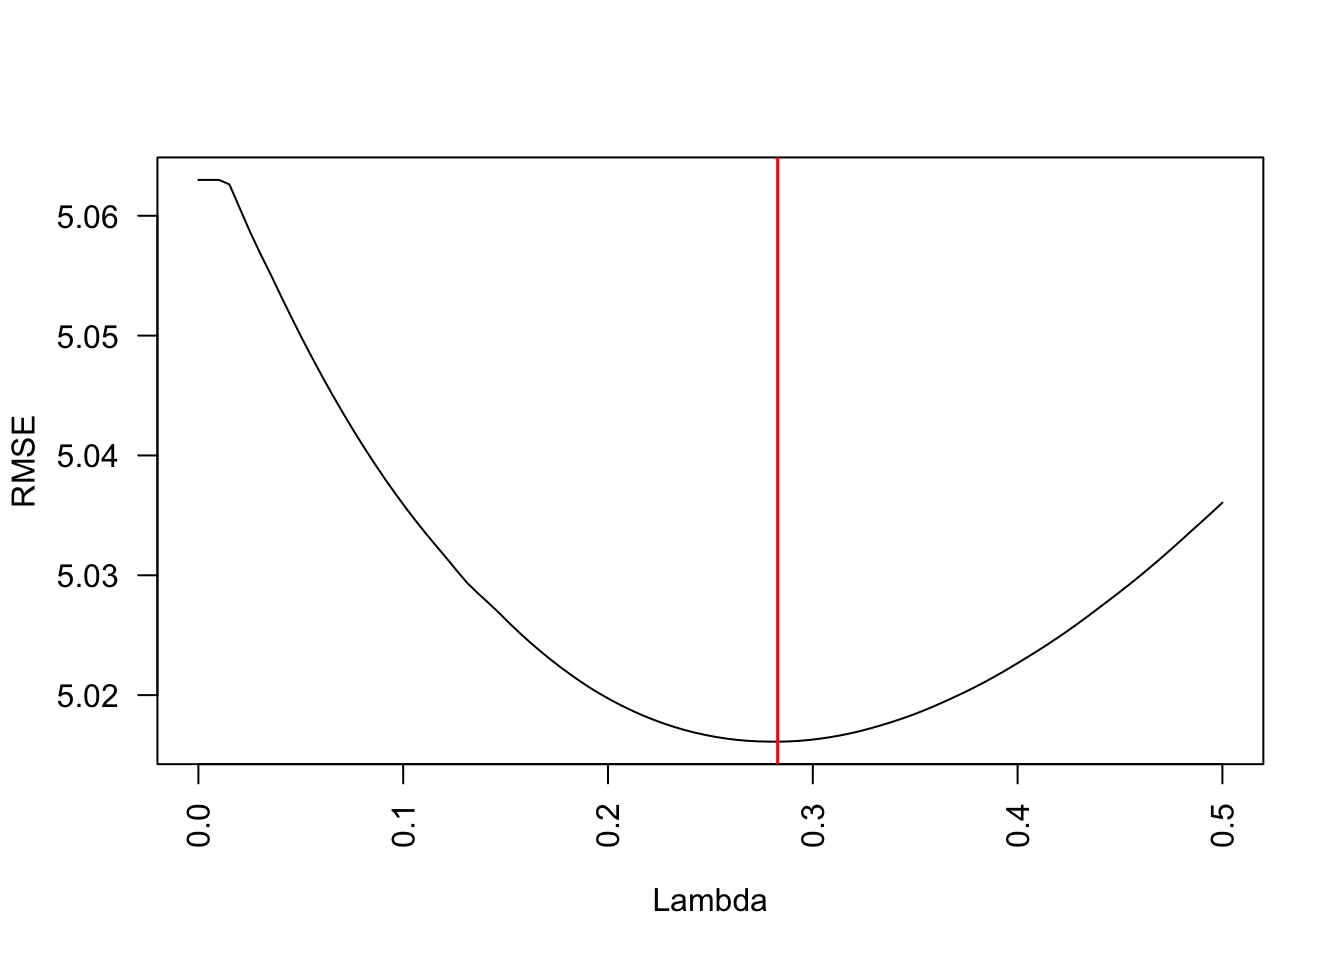
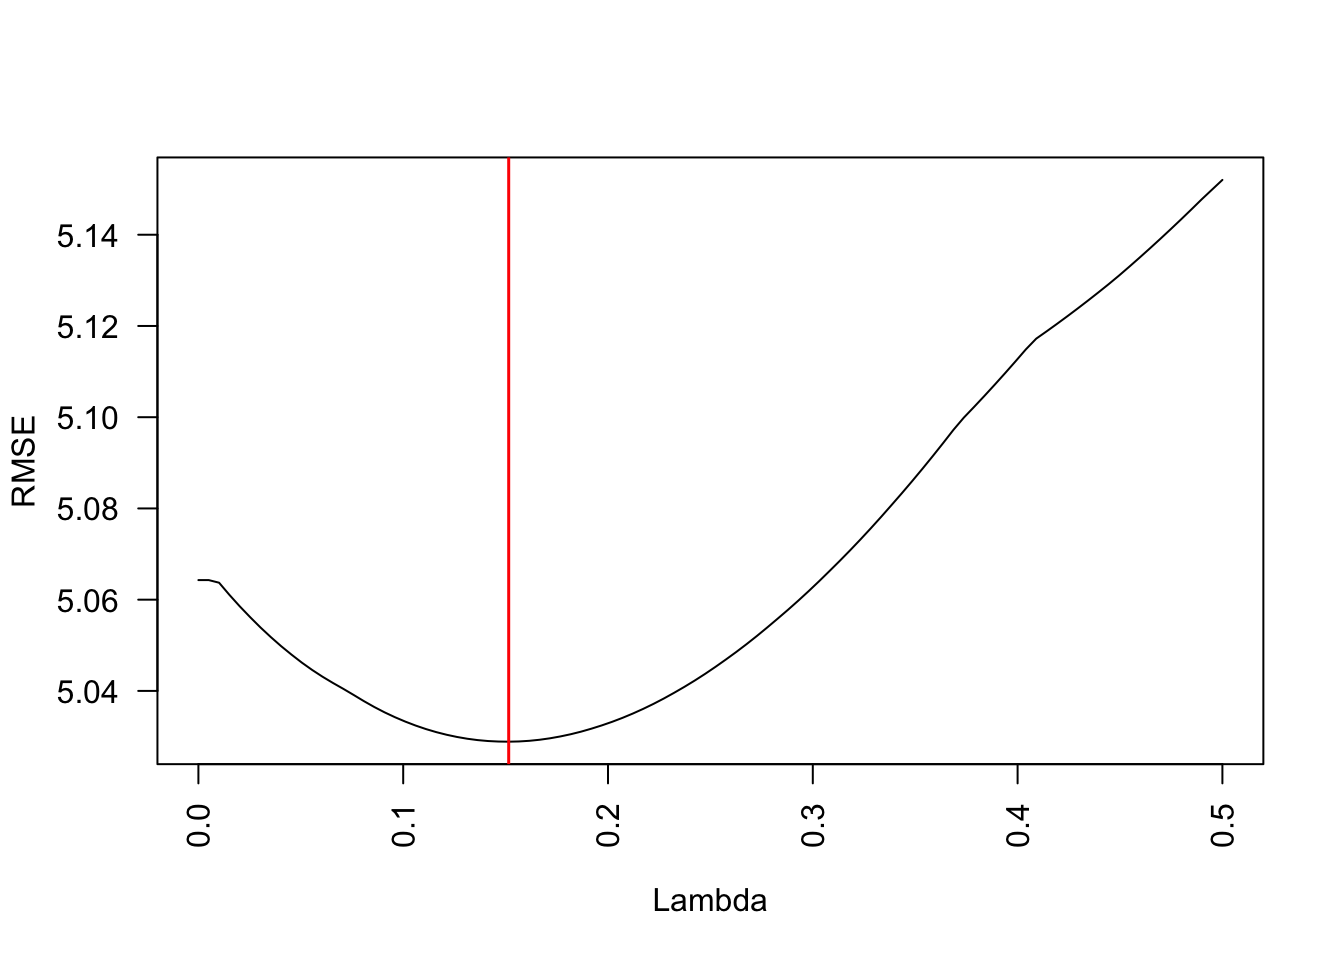
update:BIas-Variance tradeoff

diff --git a/docs/A3-BiasVarianceTradeOff.html b/docs/A3-BiasVarianceTradeOff.html
@@ -360,8 +360,8 @@ div.csl-indent {
 <div class="webex-check webex-box">
 <p><img src="images/biasVarianceTradeoff.png" class="img-fluid"></p>
 Which of the following statements about the bias-variance trade-off is correct? (see figure above)
-<div id="radio_QKNJVEIUXP" class="webex-radiogroup">
-<label><input type="radio" autocomplete="off" name="radio_QKNJVEIUXP" value="answer"> <span>The goal of considering the bias-variance trade-off is to realize that increasing complexity typically leads to more flexibility (allowing you to reduce bias) but at the cost of uncertainty (variance) in the estimated parameters.</span></label><label><input type="radio" autocomplete="off" name="radio_QKNJVEIUXP" value=""> <span>The goal of considering the bias-variance trade-off is to get the bias of the model as small as possible.</span></label>
+<div id="radio_DGGRETUWBH" class="webex-radiogroup">
+<label><input type="radio" autocomplete="off" name="radio_DGGRETUWBH" value="answer"> <span>The goal of considering the bias-variance trade-off is to realize that increasing complexity typically leads to more flexibility (allowing you to reduce bias) but at the cost of uncertainty (variance) in the estimated parameters.</span></label><label><input type="radio" autocomplete="off" name="radio_DGGRETUWBH" value=""> <span>The goal of considering the bias-variance trade-off is to get the bias of the model as small as possible.</span></label>
 </div>
 </div>
 </section>
@@ -603,7 +603,7 @@ lstat       -3.79836182 -3.6136853</code></pre>
 <span id="cb26-14"><a href="#cb26-14" aria-hidden="true" tabindex="-1"></a>test_Y <span class="ot">=</span> Y[<span class="sc">-</span>indices]</span>
 <span id="cb26-15"><a href="#cb26-15" aria-hidden="true" tabindex="-1"></a></span>
 <span id="cb26-16"><a href="#cb26-16" aria-hidden="true" tabindex="-1"></a><span class="co"># Train model on train data</span></span>
-<span id="cb26-17"><a href="#cb26-17" aria-hidden="true" tabindex="-1"></a>m1 <span class="ot">=</span> <span class="fu">glmnet</span>(<span class="at">y =</span> train_Y, <span class="at">x =</span> train_X, <span class="at">alpha =</span> <span class="fl">0.2</span>)</span>
+<span id="cb26-17"><a href="#cb26-17" aria-hidden="true" tabindex="-1"></a>m1 <span class="ot">=</span> <span class="fu">glmnet</span>(<span class="at">y =</span> train_Y, <span class="at">x =</span> train_X, <span class="at">alpha =</span> <span class="fl">0.5</span>)</span>
 <span id="cb26-18"><a href="#cb26-18" aria-hidden="true" tabindex="-1"></a></span>
 <span id="cb26-19"><a href="#cb26-19" aria-hidden="true" tabindex="-1"></a><span class="co"># Test model on test data</span></span>
 <span id="cb26-20"><a href="#cb26-20" aria-hidden="true" tabindex="-1"></a>pred <span class="ot">=</span> <span class="fu">predict</span>(m1, <span class="at">newx =</span> test_X, <span class="at">s =</span> <span class="fl">0.01</span>)</span>
@@ -611,7 +611,7 @@ lstat       -3.79836182 -3.6136853</code></pre>
 <span id="cb26-22"><a href="#cb26-22" aria-hidden="true" tabindex="-1"></a><span class="co"># Calculate performance on test data</span></span>
 <span id="cb26-23"><a href="#cb26-23" aria-hidden="true" tabindex="-1"></a>Metrics<span class="sc">::</span><span class="fu">rmse</span>(test_Y, pred)</span></code><button title="Copy to Clipboard" class="code-copy-button"><i class="bi"></i></button></pre></div>
 <div class="cell-output cell-output-stdout">
-<pre><code>[1] 5.062992</code></pre>
+<pre><code>[1] 5.063774</code></pre>
 </div>
 </div>
 <p>Let’s do it again for different values of lambdas:</p>
@@ -619,7 +619,7 @@ lstat       -3.79836182 -3.6136853</code></pre>
 <div class="sourceCode cell-code" id="cb28"><pre class="sourceCode r code-with-copy"><code class="sourceCode r"><span id="cb28-1"><a href="#cb28-1" aria-hidden="true" tabindex="-1"></a>lambdas <span class="ot">=</span> <span class="fu">seq</span>(<span class="fl">0.0000001</span>, <span class="fl">0.5</span>, <span class="at">length.out =</span> <span class="dv">100</span>)</span>
 <span id="cb28-2"><a href="#cb28-2" aria-hidden="true" tabindex="-1"></a>RMSEs <span class="ot">=</span> </span>
 <span id="cb28-3"><a href="#cb28-3" aria-hidden="true" tabindex="-1"></a>  <span class="fu">sapply</span>(lambdas, <span class="cf">function</span>(l) {</span>
-<span id="cb28-4"><a href="#cb28-4" aria-hidden="true" tabindex="-1"></a>    prediction <span class="ot">=</span> <span class="fu">predict</span>(m1, <span class="at">newx =</span> test_X, <span class="at">s =</span> l, <span class="at">alpha =</span> <span class="fl">1.0</span>)</span>
+<span id="cb28-4"><a href="#cb28-4" aria-hidden="true" tabindex="-1"></a>    prediction <span class="ot">=</span> <span class="fu">predict</span>(m1, <span class="at">newx =</span> test_X, <span class="at">s =</span> l)</span>
 <span id="cb28-5"><a href="#cb28-5" aria-hidden="true" tabindex="-1"></a>    <span class="fu">return</span>(Metrics<span class="sc">::</span><span class="fu">rmse</span>(test_Y, prediction))</span>
 <span id="cb28-6"><a href="#cb28-6" aria-hidden="true" tabindex="-1"></a>    })</span>
 <span id="cb28-7"><a href="#cb28-7" aria-hidden="true" tabindex="-1"></a><span class="fu">plot</span>(lambdas, RMSEs, <span class="at">xlab =</span> <span class="st">"Lambda"</span>, <span class="at">ylab =</span> <span class="st">"RMSE"</span>, <span class="at">type =</span> <span class="st">"l"</span>, <span class="at">las =</span> <span class="dv">2</span>)</span>
@@ -634,45 +634,31 @@ lstat       -3.79836182 -3.6136853</code></pre>
 </section>
 <section id="sec-cv" class="level3" data-number="3.2.4">
 <h3 data-number="3.2.4" class="anchored" data-anchor-id="sec-cv"><span class="header-section-number">3.2.4</span> Cross-validation</h3>
-<p>The <code>cv.glmnet</code> function does per default a 10xCV (so 10 splits) and in each split different values for <span class="math inline">\(\lambda\)</span> are tested (based on the deviance (-2xlogLik)):</p>
+<p>The <code>cv.glmnet</code> function does per default a 5xCV (so 5 splits) and in each split different values for <span class="math inline">\(\lambda\)</span> are tested</p>
 <div class="cell">
-<div class="sourceCode cell-code" id="cb29"><pre class="sourceCode r code-with-copy"><code class="sourceCode r"><span id="cb29-1"><a href="#cb29-1" aria-hidden="true" tabindex="-1"></a>m1 <span class="ot">=</span> glmnet<span class="sc">::</span><span class="fu">cv.glmnet</span>(<span class="at">x =</span> train_X, <span class="at">y =</span> train_Y, <span class="at">alpha =</span> <span class="fl">0.2</span>)</span>
+<div class="sourceCode cell-code" id="cb29"><pre class="sourceCode r code-with-copy"><code class="sourceCode r"><span id="cb29-1"><a href="#cb29-1" aria-hidden="true" tabindex="-1"></a>m1 <span class="ot">=</span> glmnet<span class="sc">::</span><span class="fu">cv.glmnet</span>(<span class="at">x =</span> X, <span class="at">y =</span> Y, <span class="at">alpha =</span> <span class="fl">0.5</span>, <span class="at">nfolds =</span> <span class="dv">5</span>)</span>
 <span id="cb29-2"><a href="#cb29-2" aria-hidden="true" tabindex="-1"></a>m1</span></code><button title="Copy to Clipboard" class="code-copy-button"><i class="bi"></i></button></pre></div>
 <div class="cell-output cell-output-stdout">
 <pre><code>
-Call:  glmnet::cv.glmnet(x = train_X, y = train_Y, alpha = 0.2) 
+Call:  glmnet::cv.glmnet(x = X, y = Y, nfolds = 5, alpha = 0.5) 
 
 Measure: Mean-Squared Error 
 
     Lambda Index Measure    SE Nonzero
-min  0.083    65   27.21 9.803      12
-1se  5.969    19   36.46 9.486       6</code></pre>
+min 0.0105    78   23.80 3.247      12
+1se 0.6905    33   26.88 4.014       8</code></pre>
 </div>
 <div class="sourceCode cell-code" id="cb31"><pre class="sourceCode r code-with-copy"><code class="sourceCode r"><span id="cb31-1"><a href="#cb31-1" aria-hidden="true" tabindex="-1"></a><span class="fu">plot</span>(m1)</span></code><button title="Copy to Clipboard" class="code-copy-button"><i class="bi"></i></button></pre></div>
 <div class="cell-output-display">
 <p><img src="A3-BiasVarianceTradeOff_files/figure-html/unnamed-chunk-12-1.png" class="img-fluid" width="672"></p>
 </div>
-</div>
-<p>So low values of <span class="math inline">\(\lambda\)</span> seem to achieve the lowest Error, so the higehst predictive performance.</p>
-<p>If we want to tune <span class="math inline">\(\alpha\)</span> and <span class="math inline">\(\lambda\)</span> simoustanously, we need the <code>glmnetUtils</code> package:</p>
-<div class="cell">
-<div class="sourceCode cell-code" id="cb32"><pre class="sourceCode r code-with-copy"><code class="sourceCode r"><span id="cb32-1"><a href="#cb32-1" aria-hidden="true" tabindex="-1"></a><span class="fu">library</span>(glmnetUtils)</span></code><button title="Copy to Clipboard" class="code-copy-button"><i class="bi"></i></button></pre></div>
-<div class="cell-output cell-output-stderr">
-<pre><code>
-Attaching package: 'glmnetUtils'</code></pre>
-</div>
-<div class="cell-output cell-output-stderr">
-<pre><code>The following objects are masked from 'package:glmnet':
-
-    cv.glmnet, glmnet</code></pre>
-</div>
-<div class="sourceCode cell-code" id="cb35"><pre class="sourceCode r code-with-copy"><code class="sourceCode r"><span id="cb35-1"><a href="#cb35-1" aria-hidden="true" tabindex="-1"></a>m2 <span class="ot">=</span> <span class="fu">cva.glmnet</span>(<span class="at">x =</span> X, <span class="at">y =</span> Y, <span class="at">alpha =</span> <span class="fu">seq</span>(<span class="dv">0</span>, <span class="fl">1.0</span>, <span class="at">length.out =</span> <span class="dv">10</span>), <span class="at">lambdas =</span> <span class="fu">seq</span>(<span class="fl">0.0001</span>, <span class="fl">0.2</span>, <span class="at">length.out =</span> <span class="dv">10</span>), <span class="at">nfolds =</span> <span class="dv">3</span>)</span>
-<span id="cb35-2"><a href="#cb35-2" aria-hidden="true" tabindex="-1"></a></span>
-<span id="cb35-3"><a href="#cb35-3" aria-hidden="true" tabindex="-1"></a><span class="fu">plot</span>(m2)</span></code><button title="Copy to Clipboard" class="code-copy-button"><i class="bi"></i></button></pre></div>
-<div class="cell-output-display">
-<p><img src="A3-BiasVarianceTradeOff_files/figure-html/unnamed-chunk-13-1.png" class="img-fluid" width="672"></p>
+<div class="sourceCode cell-code" id="cb32"><pre class="sourceCode r code-with-copy"><code class="sourceCode r"><span id="cb32-1"><a href="#cb32-1" aria-hidden="true" tabindex="-1"></a>m1<span class="sc">$</span>lambda.min</span></code><button title="Copy to Clipboard" class="code-copy-button"><i class="bi"></i></button></pre></div>
+<div class="cell-output cell-output-stdout">
+<pre><code>[1] 0.01049538</code></pre>
 </div>
 </div>
+<p>So low values of <span class="math inline">\(\lambda\)</span> seem to achieve the lowest error, thus the higehst predictive performance.</p>
+<p>This is called hyperparameter tuning.</p>
 
 
 <div id="refs" class="references csl-bib-body hanging-indent" role="list">
